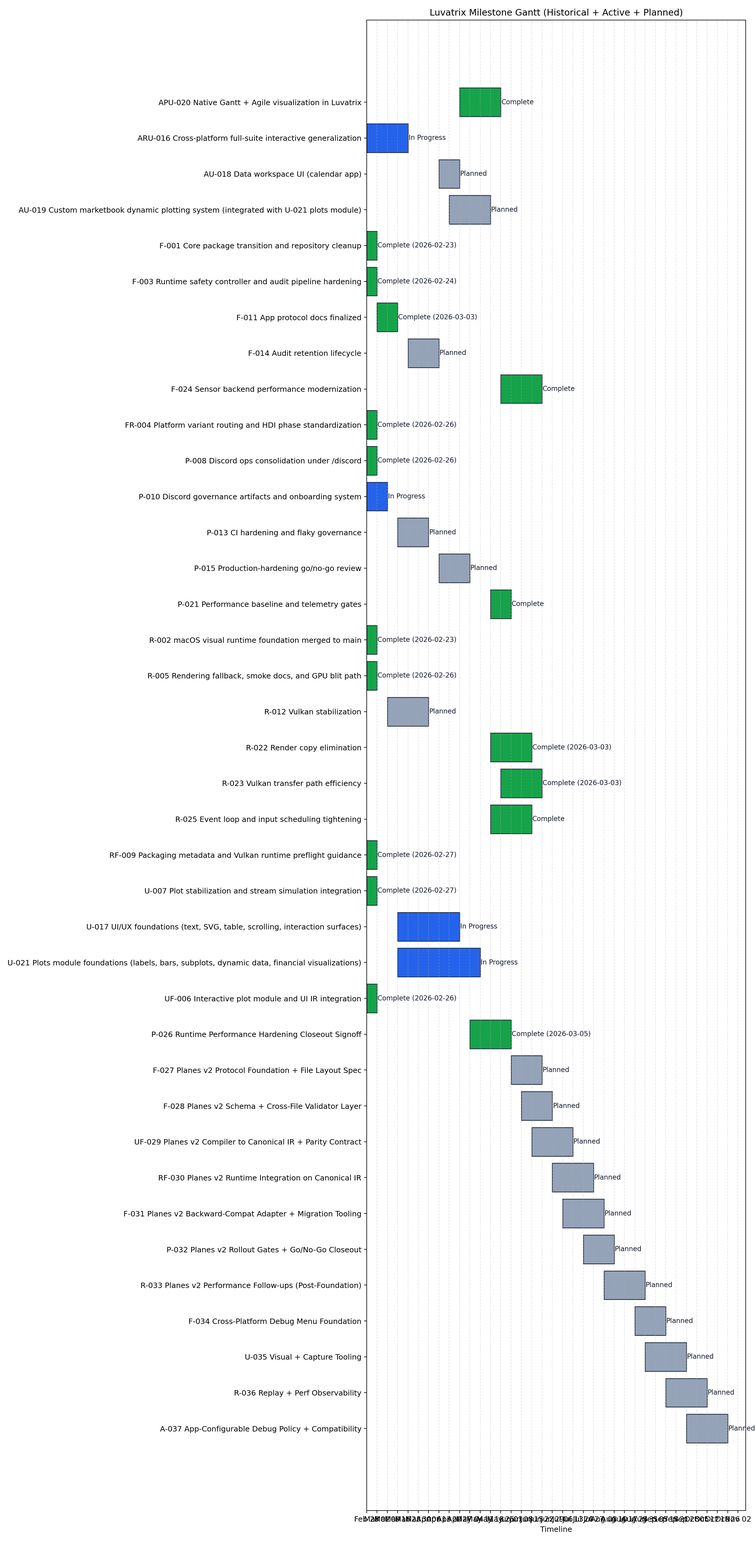
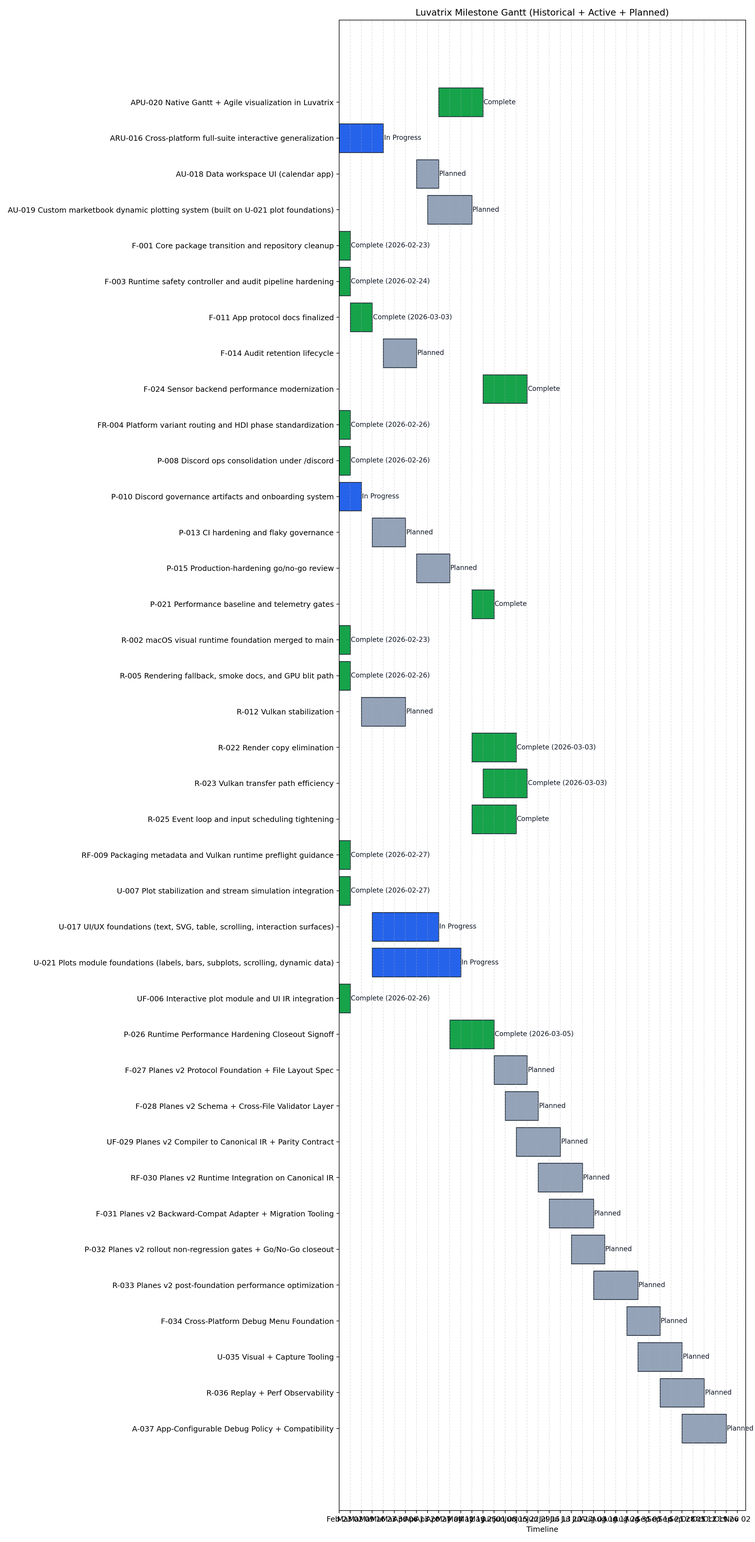
feat(planning): reorganize milestones and merge overlapping tasks

diff --git a/ops/planning/gantt/milestones_gantt.md b/ops/planning/gantt/milestones_gantt.md
@@ -3,47 +3,47 @@
 Canonical schedule source: `ops/planning/gantt/milestone_schedule.json`
 
 ```text
-                                                                                                   |W01    W02    W03    W04    W05    W06    W07    W08    W09    W10    W11    W12    W13    W14    W15    W16    W17    W18    W19    W20    W21    W22    W23    W24    W25    W26    W27    W28    W29    W30    W31    W32    W33    W34    W35    |
-                                                                                                   |02/23  03/02  03/09  03/16  03/23  03/30  04/06  04/13  04/20  04/27  05/04  05/11  05/18  05/25  06/01  06/08  06/15  06/22  06/29  07/06  07/13  07/20  07/27  08/03  08/10  08/17  08/24  08/31  09/07  09/14  09/21  09/28  10/05  10/12  10/19  |
----------------------------------------------------------------------------------------------------+-----------------------------------------------------------------------------------------------------------------------------------------------------------------------------------------------------------------------------------------------------+
-APU-020 🧭 Native Gantt + Agile visualization in Luvatrix                                           |                                                               ============================                                                                                                                                                          | Complete
-ARU-016 🌐 Cross-platform full-suite interactive generalization                                     |############################                                                                                                                                                                                                                         | In Progress
-AU-018 🗓 Data workspace UI (calendar app)                                                         |                                                 ~~~~~~~~~~~~~~                                                                                                                                                                                      | Planned
-AU-019 📈 Custom marketbook dynamic plotting system (integrated with U-021 plots module)            |                                                        ~~~~~~~~~~~~~~~~~~~~~~~~~~~~                                                                                                                                                                 | Planned
-F-001 🧬 Core package transition and repository cleanup                                             |=======                                                                                                                                                                                                                                              | Complete (2026-02-23)
-F-003 ⚡ Runtime safety controller and audit pipeline hardening                                     |=======                                                                                                                                                                                                                                              | Complete (2026-02-24)
-F-011 📜 App protocol docs finalized                                                                |       ==============                                                                                                                                                                                                                                | Complete (2026-03-03)
-F-014 🛡 Audit retention lifecycle                                                                 |                            ~~~~~~~~~~~~~~~~~~~~~                                                                                                                                                                                                    | Planned
-F-024 🛰 Sensor backend performance modernization                                                  |                                                                                           ============================                                                                                                                              | Complete
-FR-004 🧭 Platform variant routing and HDI phase standardization                                    |=======                                                                                                                                                                                                                                              | Complete (2026-02-26)
-P-008 🗂 Discord ops consolidation under /discord                                                  |=======                                                                                                                                                                                                                                              | Complete (2026-02-26)
-P-010 🧱 Discord governance artifacts and onboarding system                                         |##############                                                                                                                                                                                                                                       | In Progress
-P-013 🧪 CI hardening and flaky governance                                                          |                     ~~~~~~~~~~~~~~~~~~~~~                                                                                                                                                                                                           | Planned
-P-015 🚀 Production-hardening go/no-go review                                                       |                                                 ~~~~~~~~~~~~~~~~~~~~~                                                                                                                                                                               | Planned
-P-021 📏 Performance baseline and telemetry gates                                                   |                                                                                    ==============                                                                                                                                                   | Complete
-R-002 🖥 macOS visual runtime foundation merged to main                                            |=======                                                                                                                                                                                                                                              | Complete (2026-02-23)
-R-005 🎯 Rendering fallback, smoke docs, and GPU blit path                                          |=======                                                                                                                                                                                                                                              | Complete (2026-02-26)
-R-012 🎮 Vulkan stabilization                                                                       |              ~~~~~~~~~~~~~~~~~~~~~~~~~~~~                                                                                                                                                                                                           | Planned
-R-022 🧬 Render copy elimination                                                                    |                                                                                    ============================                                                                                                                                     | Complete (2026-03-03)
-R-023 🚚 Vulkan transfer path efficiency                                                            |                                                                                           ============================                                                                                                                              | Complete (2026-03-03)
-R-025 🎛 Event loop and input scheduling tightening                                                |                                                                                    ============================                                                                                                                                     | Complete
-RF-009 📦 Packaging metadata and Vulkan runtime preflight guidance                                  |=======                                                                                                                                                                                                                                              | Complete (2026-02-27)
-U-007 🔌 Plot stabilization and stream simulation integration                                       |=======                                                                                                                                                                                                                                              | Complete (2026-02-27)
-U-017 📊 UI/UX foundations (text, SVG, table, scrolling, interaction surfaces)                      |                     ##########################################                                                                                                                                                                                      | In Progress
-U-021 📉 Plots module foundations (labels, bars, subplots, dynamic data, financial visualizations)  |                     ########################################################                                                                                                                                                                        | In Progress
-UF-006 📈 Interactive plot module and UI IR integration                                             |=======                                                                                                                                                                                                                                              | Complete (2026-02-26)
-P-026 ✅ Runtime Performance Hardening Closeout Signoff                                             |                                                                      ============================                                                                                                                                                   | Complete (2026-03-05)
-F-027 🧱 Planes v2 Protocol Foundation + File Layout Spec                                           |                                                                                                  ~~~~~~~~~~~~~~~~~~~~~                                                                                                                              | Planned
-F-028 ✅ Planes v2 Schema + Cross-File Validator Layer                                              |                                                                                                         ~~~~~~~~~~~~~~~~~~~~~                                                                                                                       | Planned
-UF-029 🧠 Planes v2 Compiler to Canonical IR + Parity Contract                                      |                                                                                                                ~~~~~~~~~~~~~~~~~~~~~~~~~~~~                                                                                                         | Planned
-RF-030 ⚙ Planes v2 Runtime Integration on Canonical IR                                            |                                                                                                                              ~~~~~~~~~~~~~~~~~~~~~~~~~~~~                                                                                           | Planned
-F-031 🔁 Planes v2 Backward-Compat Adapter + Migration Tooling                                      |                                                                                                                                     ~~~~~~~~~~~~~~~~~~~~~~~~~~~~                                                                                    | Planned
-P-032 🚦 Planes v2 Rollout Gates + Go/No-Go Closeout                                                |                                                                                                                                                   ~~~~~~~~~~~~~~~~~~~~~                                                                             | Planned
-R-033 📈 Planes v2 Performance Follow-ups (Post-Foundation)                                         |                                                                                                                                                                 ~~~~~~~~~~~~~~~~~~~~~~~~~~~~                                                        | Planned
-F-034 🛡 Cross-Platform Debug Menu Foundation                                                      |                                                                                                                                                                                      ~~~~~~~~~~~~~~~~~~~~~                                          | Planned
-U-035 🖼 Visual + Capture Tooling                                                                  |                                                                                                                                                                                             ~~~~~~~~~~~~~~~~~~~~~~~~~~~~                            | Planned
-R-036 🎛 Replay + Perf Observability                                                               |                                                                                                                                                                                                           ~~~~~~~~~~~~~~~~~~~~~~~~~~~~              | Planned
-A-037 🧩 App-Configurable Debug Policy + Compatibility                                              |                                                                                                                                                                                                                         ~~~~~~~~~~~~~~~~~~~~~~~~~~~~| Planned
+                                                                                      |W01    W02    W03    W04    W05    W06    W07    W08    W09    W10    W11    W12    W13    W14    W15    W16    W17    W18    W19    W20    W21    W22    W23    W24    W25    W26    W27    W28    W29    W30    W31    W32    W33    W34    W35    |
+                                                                                      |02/23  03/02  03/09  03/16  03/23  03/30  04/06  04/13  04/20  04/27  05/04  05/11  05/18  05/25  06/01  06/08  06/15  06/22  06/29  07/06  07/13  07/20  07/27  08/03  08/10  08/17  08/24  08/31  09/07  09/14  09/21  09/28  10/05  10/12  10/19  |
+--------------------------------------------------------------------------------------+-----------------------------------------------------------------------------------------------------------------------------------------------------------------------------------------------------------------------------------------------------+
+APU-020 🧭 Native Gantt + Agile visualization in Luvatrix                              |                                                               ============================                                                                                                                                                          | Complete
+ARU-016 🌐 Cross-platform full-suite interactive generalization                        |############################                                                                                                                                                                                                                         | In Progress
+AU-018 🗓 Data workspace UI (calendar app)                                            |                                                 ~~~~~~~~~~~~~~                                                                                                                                                                                      | Planned
+AU-019 📈 Custom marketbook dynamic plotting system (built on U-021 plot foundations)  |                                                        ~~~~~~~~~~~~~~~~~~~~~~~~~~~~                                                                                                                                                                 | Planned
+F-001 🧬 Core package transition and repository cleanup                                |=======                                                                                                                                                                                                                                              | Complete (2026-02-23)
+F-003 ⚡ Runtime safety controller and audit pipeline hardening                        |=======                                                                                                                                                                                                                                              | Complete (2026-02-24)
+F-011 📜 App protocol docs finalized                                                   |       ==============                                                                                                                                                                                                                                | Complete (2026-03-03)
+F-014 🛡 Audit retention lifecycle                                                    |                            ~~~~~~~~~~~~~~~~~~~~~                                                                                                                                                                                                    | Planned
+F-024 🛰 Sensor backend performance modernization                                     |                                                                                           ============================                                                                                                                              | Complete
+FR-004 🧭 Platform variant routing and HDI phase standardization                       |=======                                                                                                                                                                                                                                              | Complete (2026-02-26)
+P-008 🗂 Discord ops consolidation under /discord                                     |=======                                                                                                                                                                                                                                              | Complete (2026-02-26)
+P-010 🧱 Discord governance artifacts and onboarding system                            |##############                                                                                                                                                                                                                                       | In Progress
+P-013 🧪 CI hardening and flaky governance                                             |                     ~~~~~~~~~~~~~~~~~~~~~                                                                                                                                                                                                           | Planned
+P-015 🚀 Production-hardening go/no-go review                                          |                                                 ~~~~~~~~~~~~~~~~~~~~~                                                                                                                                                                               | Planned
+P-021 📏 Performance baseline and telemetry gates                                      |                                                                                    ==============                                                                                                                                                   | Complete
+R-002 🖥 macOS visual runtime foundation merged to main                               |=======                                                                                                                                                                                                                                              | Complete (2026-02-23)
+R-005 🎯 Rendering fallback, smoke docs, and GPU blit path                             |=======                                                                                                                                                                                                                                              | Complete (2026-02-26)
+R-012 🎮 Vulkan stabilization                                                          |              ~~~~~~~~~~~~~~~~~~~~~~~~~~~~                                                                                                                                                                                                           | Planned
+R-022 🧬 Render copy elimination                                                       |                                                                                    ============================                                                                                                                                     | Complete (2026-03-03)
+R-023 🚚 Vulkan transfer path efficiency                                               |                                                                                           ============================                                                                                                                              | Complete (2026-03-03)
+R-025 🎛 Event loop and input scheduling tightening                                   |                                                                                    ============================                                                                                                                                     | Complete
+RF-009 📦 Packaging metadata and Vulkan runtime preflight guidance                     |=======                                                                                                                                                                                                                                              | Complete (2026-02-27)
+U-007 🔌 Plot stabilization and stream simulation integration                          |=======                                                                                                                                                                                                                                              | Complete (2026-02-27)
+U-017 📊 UI/UX foundations (text, SVG, table, scrolling, interaction surfaces)         |                     ##########################################                                                                                                                                                                                      | In Progress
+U-021 📉 Plots module foundations (labels, bars, subplots, scrolling, dynamic data)    |                     ########################################################                                                                                                                                                                        | In Progress
+UF-006 📈 Interactive plot module and UI IR integration                                |=======                                                                                                                                                                                                                                              | Complete (2026-02-26)
+P-026 ✅ Runtime Performance Hardening Closeout Signoff                                |                                                                      ============================                                                                                                                                                   | Complete (2026-03-05)
+F-027 🧱 Planes v2 Protocol Foundation + File Layout Spec                              |                                                                                                  ~~~~~~~~~~~~~~~~~~~~~                                                                                                                              | Planned
+F-028 ✅ Planes v2 Schema + Cross-File Validator Layer                                 |                                                                                                         ~~~~~~~~~~~~~~~~~~~~~                                                                                                                       | Planned
+UF-029 🧠 Planes v2 Compiler to Canonical IR + Parity Contract                         |                                                                                                                ~~~~~~~~~~~~~~~~~~~~~~~~~~~~                                                                                                         | Planned
+RF-030 ⚙ Planes v2 Runtime Integration on Canonical IR                               |                                                                                                                              ~~~~~~~~~~~~~~~~~~~~~~~~~~~~                                                                                           | Planned
+F-031 🔁 Planes v2 Backward-Compat Adapter + Migration Tooling                         |                                                                                                                                     ~~~~~~~~~~~~~~~~~~~~~~~~~~~~                                                                                    | Planned
+P-032 🚦 Planes v2 rollout non-regression gates + Go/No-Go closeout                    |                                                                                                                                                   ~~~~~~~~~~~~~~~~~~~~~                                                                             | Planned
+R-033 📈 Planes v2 post-foundation performance optimization                            |                                                                                                                                                                 ~~~~~~~~~~~~~~~~~~~~~~~~~~~~                                                        | Planned
+F-034 🛡 Cross-Platform Debug Menu Foundation                                         |                                                                                                                                                                                      ~~~~~~~~~~~~~~~~~~~~~                                          | Planned
+U-035 🖼 Visual + Capture Tooling                                                     |                                                                                                                                                                                             ~~~~~~~~~~~~~~~~~~~~~~~~~~~~                            | Planned
+R-036 🎛 Replay + Perf Observability                                                  |                                                                                                                                                                                                           ~~~~~~~~~~~~~~~~~~~~~~~~~~~~              | Planned
+A-037 🧩 App-Configurable Debug Policy + Compatibility                                 |                                                                                                                                                                                                                         ~~~~~~~~~~~~~~~~~~~~~~~~~~~~| Planned
 
 Legend: '=' Complete, '#' In Progress, '~' Planned, '!' At Risk, 'x' Blocked
 ```
@@ -84,10 +84,10 @@ Legend: '=' Complete, '#' In Progress, '~' Planned, '!' At Risk, 'x' Blocked
 - Lifecycle events:
   - 2026-03-03 active (framework=gateflow_v1) - active milestone in current planning cycle
 
-### AU-019 📈 Custom marketbook dynamic plotting system (integrated with U-021 plots module)
+### AU-019 📈 Custom marketbook dynamic plotting system (built on U-021 plot foundations)
 - Status: Planned
 - Target window: Week 9-12
-- Tasks: `T-1001, T-1002, T-1003, T-1004`
+- Tasks: `T-1001, T-1002, T-1004`
 - Lifecycle events:
   - 2026-03-03 active (framework=gateflow_v1) - active milestone in current planning cycle
   - 2026-03-03 reopened (framework=gateflow_v1) - integrated dependency path added for U-021 plot module outputs
@@ -245,17 +245,17 @@ Legend: '=' Complete, '#' In Progress, '~' Planned, '!' At Risk, 'x' Blocked
 ### U-017 📊 UI/UX foundations (text, SVG, table, scrolling, interaction surfaces)
 - Status: In Progress
 - Target window: Week 4-9
-- Tasks: `T-804, T-805, T-834, T-835, T-836, T-837, T-838, T-839, T-840, T-2301, T-2302, T-2303, T-2304, T-2305`
+- Tasks: `T-805, T-834, T-835, T-836, T-837, T-838, T-839, T-840, T-2301, T-2302, T-2303, T-2304, T-2305`
 - Lifecycle events:
   - 2026-03-01 closed (framework=kanban_v1) - sprint closure
   - 2026-03-01 reopened (framework=kanban_v1) - follow-up tasks added
   - 2026-03-03 active (framework=gateflow_v1) - framework migration cycle
   - 2026-03-03 reopened (framework=gateflow_v1) - scope split: plotting work moved into U-021 while UI/UX foundations remain in U-017
 
-### U-021 📉 Plots module foundations (labels, bars, subplots, dynamic data, financial visualizations)
+### U-021 📉 Plots module foundations (labels, bars, subplots, scrolling, dynamic data)
 - Status: In Progress
 - Target window: Week 4-11
-- Tasks: `T-801, T-802, T-803, T-821, T-822`
+- Tasks: `T-801, T-802, T-803, T-821, T-822, T-804`
 - Lifecycle events:
   - 2026-03-03 active (framework=gateflow_v1) - split from U-017 to isolate plotting stack and integrate with AU-019
 
@@ -359,20 +359,20 @@ Legend: '=' Complete, '#' In Progress, '~' Planned, '!' At Risk, 'x' Blocked
   - Legacy apps run through adapter with no forced rewrites.
   - z_index_alias compatibility preserved during migration to k_hat_index canonical order.
 
-### P-032 🚦 Planes v2 Rollout Gates + Go/No-Go Closeout
+### P-032 🚦 Planes v2 rollout non-regression gates + Go/No-Go closeout
 - Status: Planned
 - Target window: Week 22-24
-- Tasks: `T-3424, T-3416, T-3417`
+- Tasks: `T-3424, T-3416, T-3417, T-3418`
 - Lifecycle events:
   - 2026-03-05 active (framework=gateflow_v1) - rollout milestone staged
 - Success criteria:
   - Feature flags and rollback points defined and tested.
   - Go/No-Go closeout is evidence-backed and reproducible.
 
-### R-033 📈 Planes v2 Performance Follow-ups (Post-Foundation)
+### R-033 📈 Planes v2 post-foundation performance optimization
 - Status: Planned
 - Target window: Week 24-27
-- Tasks: `T-3425, T-3418, T-3419`
+- Tasks: `T-3425, T-3419`
 - Lifecycle events:
   - 2026-03-05 active (framework=gateflow_v1) - perf follow-up milestone staged
 - Success criteria:
